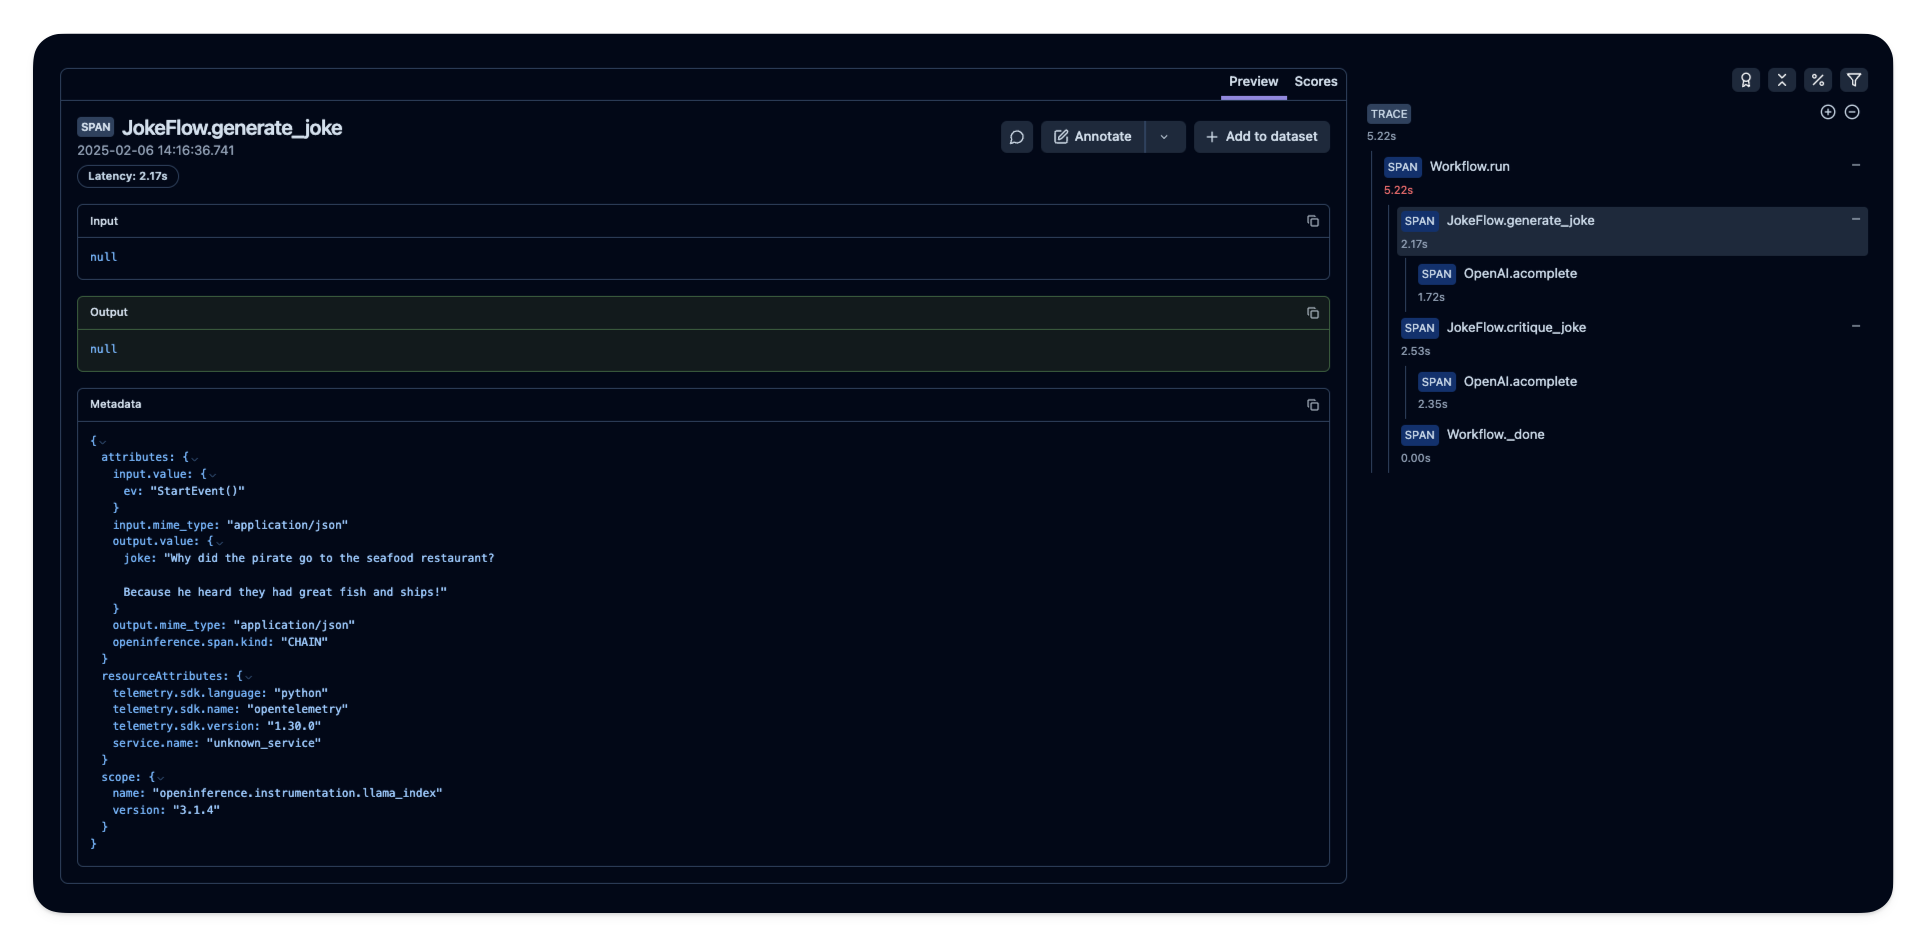
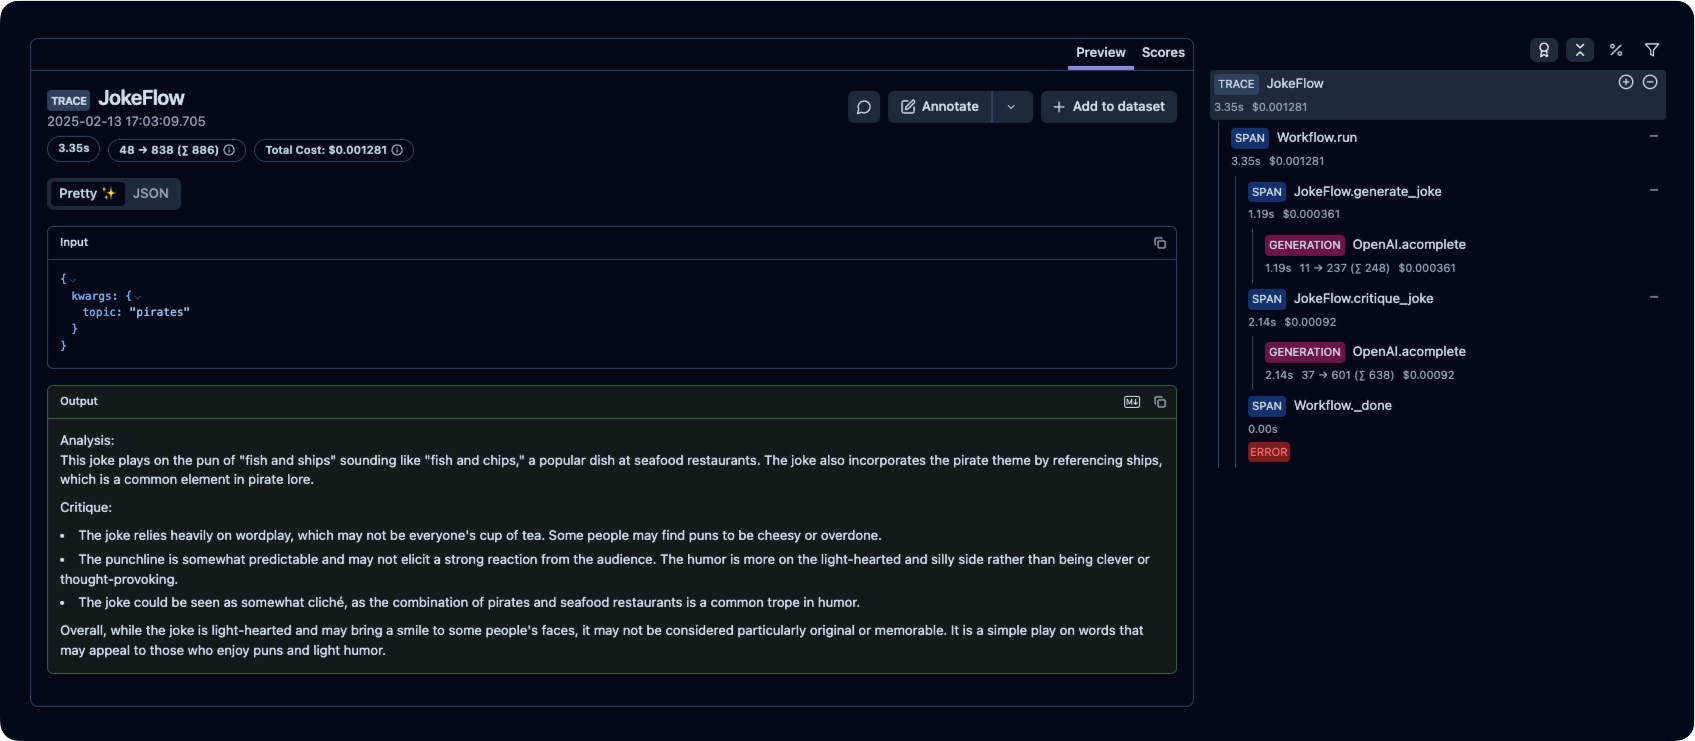
update guide

Changed region(s): [[0.0, 0.0, 1.0, 1.0]]

diff --git a/pages/docs/integrations/llama-index/workflows.md b/pages/docs/integrations/llama-index/workflows.md
@@ -1,11 +1,11 @@
 ---
 title: Observability for LlamaIndex Workflows with Langfuse  
-description: Learn how to integrate Langfuse with LlamaIndex Workflows using OpenTelemetry. This cookbook shows you how to trace AI workflows, improve observability, and debug LLM applications.  
+description: Learn how to monitor LlamaIndex Workflows with Langfuse. This cookbook shows you how to trace AI workflows, improve observability, and debug LLM applications.  
 ---
 
 # Observability for LlamaIndex Workflows
 
-This cookbook demonstrates how to use [Langfuse](https://langfuse.com) to gain real-time observability for your [LlamaIndex Workflows](https://docs.llamaindex.ai/en/stable/module_guides/workflow/). You will learn how to leverage OpenTelemetry to trace each step within a workflow for improved monitoring, debugging, and performance optimization.
+This cookbook demonstrates how to use [Langfuse](https://langfuse.com) to gain real-time observability for your [LlamaIndex Workflows](https://docs.llamaindex.ai/en/stable/module_guides/workflow/).
 
 > **What are LlamaIndex Workflows?** [LlamaIndex Workflows](https://docs.llamaindex.ai/en/stable/module_guides/workflow/) is a flexible, event-driven framework designed to build robust AI agents. In LlamaIndex, workflows are created by chaining together multiple steps—each defined and validated using the `@step` decorator. Every step processes specific event types, allowing you to orchestrate complex processes such as AI agent collaboration, RAG flows, data extraction, and more.
 
@@ -13,60 +13,44 @@ This cookbook demonstrates how to use [Langfuse](https://langfuse.com) to gain r
 
 ## Get Started
 
-We'll walk through a simple example of using LlamaIndex Workflows and integrating it with Langfuse via OpenTelemetry.
+We'll walk through a simple example of using LlamaIndex Workflows and integrating it with Langfuse.
 
 ### Step 1: Install Dependencies
 
 
 ```python
-%pip install opentelemetry-sdk opentelemetry-exporter-otlp
-%pip install openai gcsfs nest-asyncio "openinference-instrumentation-llama-index>=2.0.0"
-%pip install llama-index
+%pip install langfuse openai llama-index
 ```
 
 ### Step 2: Set Up Environment Variables
 
-Configure your Langfuse API keys and OpenTelemetry export settings. Replace the placeholder values with your actual credentials. These settings ensure that OpenTelemetry traces are sent to Langfuse for real-time observability.
+Configure your Langfuse API keys. You can get them by signing up for [Langfuse Cloud](https://cloud.langfuse.com) or [self-hosting Langfuse](https://langfuse.com/self-hosting).
 
 
 ```python
 import os
-import base64
 
-LANGFUSE_PUBLIC_KEY="pk-lf-..."
-LANGFUSE_SECRET_KEY="sk-lf-..."
-LANGFUSE_AUTH=base64.b64encode(f"{LANGFUSE_PUBLIC_KEY}:{LANGFUSE_SECRET_KEY}".encode()).decode()
+# Get keys for your project from the project settings page
+# https://cloud.langfuse.com
 
-# your openai key
-os.environ["OPENAI_API_KEY"] = "sk-..."
+os.environ["LANGFUSE_PUBLIC_KEY"] = "pk-lf-..." # DOCS EXAMPLE KEYS
+os.environ["LANGFUSE_SECRET_KEY"] = "sk-lf-..." # DOCS EXAMPLE KEYS
+os.environ["LANGFUSE_HOST"] = "https://cloud.langfuse.com" # 🇪🇺 EU region
+# os.environ["LANGFUSE_HOST"] = "https://us.cloud.langfuse.com" # 🇺🇸 US region
 
-os.environ["OTEL_EXPORTER_OTLP_ENDPOINT"] = "https://cloud.langfuse.com/api/public/otel" # 🇪🇺 EU data region
-# os.environ["OTEL_EXPORTER_OTLP_ENDPOINT"] = "https://us.cloud.langfuse.com/api/public/otel" # 🇺🇸 US data region
-os.environ["OTEL_EXPORTER_OTLP_HEADERS"] = f"Authorization=Basic {LANGFUSE_AUTH}"
+os.environ["OPENAI_API_KEY"] = "sk-proj-..."
 ```
 
 ### Step 3: Initialize the `LlamaIndexInstrumentor`
 
-Initialize the `LlamaIndexInstrumentor` from the [openinference library](https://github.com/Arize-ai/openinference) before your application code. Configure `tracer_provider` and add a span processor to export traces to Langfuse. `OTLPSpanExporter()` (here imported as `HTTPSpanExporter`) uses the endpoint and headers from the environment variables.
+At the root of your LlamaIndex application, register Langfuse’s `LlamaIndexInstrumentor`. When instantiating `LlamaIndexInstrumentor`, make sure to configure your Langfuse API keys and the Host URL correctly via environment variables or constructor arguments.
 
 
 ```python
-from opentelemetry.sdk import trace as trace_sdk
-from opentelemetry.sdk.trace.export import SimpleSpanProcessor
-from opentelemetry.exporter.otlp.proto.http.trace_exporter import (
-    OTLPSpanExporter as HTTPSpanExporter,
-)
-from openinference.instrumentation.llama_index import LlamaIndexInstrumentor
+from langfuse.llama_index import LlamaIndexInstrumentor
 
-# Add Langfuse
-span_langfuse_processor = SimpleSpanProcessor(HTTPSpanExporter())
-
-# Add them to the tracer
-tracer_provider = trace_sdk.TracerProvider()
-tracer_provider.add_span_processor(span_processor=span_langfuse_processor)
-
-# Instrument the application
-LlamaIndexInstrumentor().instrument(tracer_provider=tracer_provider)
+# Get your keys from the Langfuse project settings page and set them as environment variables or pass them as arguments when initializing the instrumentor
+instrumentor = LlamaIndexInstrumentor()
 ```
 
 ### Step 4: Create a Simple LlamaIndex Workflows Application
@@ -75,6 +59,8 @@ In LlamaIndex Workflows, you build event-driven AI agents by defining steps with
 
 
 ```python
+instrumentor.start()
+
 from llama_index.core.workflow import (
     Event,
     StartEvent,
@@ -111,27 +97,30 @@ class JokeFlow(Workflow):
 w = JokeFlow(timeout=60, verbose=False)
 result = await w.run(topic="pirates")
 print(str(result))
+
+instrumentor.flush()
 ```
 
+    Trace ID is not set. Creating generation client with new trace id.
+
+
     Analysis:
-    This joke plays on the pun of "fish and ships" sounding like "fish and chips," a popular dish at seafood restaurants. The joke also incorporates the pirate theme by mentioning a pirate going to a seafood restaurant, which adds an element of humor.
+    This joke plays on the pun of "fish and ships" sounding like "fish and chips," a popular dish at seafood restaurants. The joke also incorporates the pirate theme by mentioning a pirate going to a seafood restaurant, which adds an element of humor and surprise.
     
     Critique:
-    Overall, this joke is light-hearted and playful, making it suitable for a general audience. The pun is clever and well-executed, providing a humorous twist to a common phrase. However, the joke may be considered somewhat predictable or cliché, as puns involving homophones are a common comedic device. Additionally, the joke relies heavily on wordplay and does not have a complex setup or punchline, which may limit its appeal to some audiences. Overall, while this joke is amusing and likely to elicit a chuckle, it may not be considered particularly original or innovative.
+    Overall, this joke is light-hearted and playful, making it suitable for a general audience. The use of wordplay is clever and adds an element of wit to the punchline. However, the joke may be considered somewhat predictable as the punchline is somewhat expected once the pirate theme is introduced. Additionally, the humor may not be particularly sophisticated or original, as puns involving food and wordplay are common in comedy. Overall, while this joke may elicit a chuckle or a smile, it may not be particularly memorable or groundbreaking in terms of humor.
 
 
 ### Step 5: View Traces in Langfuse
 
-After running your workflow, log in to [Langfuse](https://cloud.langfuse.com) to explore the generated OpenTelemetry traces. You will see detailed logs for each workflow step along with metrics such as token counts, latencies, and execution paths. For example, the trace may show how the preprocessing and reply generation steps were executed in your LlamaIndex Workflows application.
+After running your workflow, log in to [Langfuse](https://cloud.langfuse.com) to explore the generated traces. You will see logs for each workflow step along with metrics such as token counts, latencies, and execution paths. 
 
 ![Langfuse Trace Example](https://langfuse.com/images/cookbook/integration-llamaindex-workflows/llamaindex-workflows-example-trace.png)
 
-_[Public example trace in Langfuse](https://cloud.langfuse.com/project/cloramnkj0002jz088vzn1ja4/traces/9463f912ef8b9763a62d67445bcbc737?timestamp=2025-02-06T13%3A51%3A33.358Z&observation=7d9e694bfe0dd983)_
+_[Public example trace in Langfuse](https://cloud.langfuse.com/project/cloramnkj0002jz088vzn1ja4/traces/f2bb3e13-aafb-41a0-a852-efd20f12a4f4?timestamp=2025-02-13T16%3A03%3A09.705Z)_
 
 ## References
 
-- [Langfuse OpenTelemetry Docs](https://langfuse.com/docs/opentelemetry/get-started)  
 - [LlamaIndex Workflows Documentation](https://docs.llamaindex.ai/en/stable/module_guides/workflow/)  
-
 
 

diff --git a/pages/guides/cookbook/integration_llamaindex_workflows.md b/pages/guides/cookbook/integration_llamaindex_workflows.md
@@ -1,11 +1,11 @@
 ---
 title: Observability for LlamaIndex Workflows with Langfuse  
-description: Learn how to integrate Langfuse with LlamaIndex Workflows using OpenTelemetry. This cookbook shows you how to trace AI workflows, improve observability, and debug LLM applications.  
+description: Learn how to monitor LlamaIndex Workflows with Langfuse. This cookbook shows you how to trace AI workflows, improve observability, and debug LLM applications.  
 ---
 
 # Observability for LlamaIndex Workflows
 
-This cookbook demonstrates how to use [Langfuse](https://langfuse.com) to gain real-time observability for your [LlamaIndex Workflows](https://docs.llamaindex.ai/en/stable/module_guides/workflow/). You will learn how to leverage OpenTelemetry to trace each step within a workflow for improved monitoring, debugging, and performance optimization.
+This cookbook demonstrates how to use [Langfuse](https://langfuse.com) to gain real-time observability for your [LlamaIndex Workflows](https://docs.llamaindex.ai/en/stable/module_guides/workflow/).
 
 > **What are LlamaIndex Workflows?** [LlamaIndex Workflows](https://docs.llamaindex.ai/en/stable/module_guides/workflow/) is a flexible, event-driven framework designed to build robust AI agents. In LlamaIndex, workflows are created by chaining together multiple steps—each defined and validated using the `@step` decorator. Every step processes specific event types, allowing you to orchestrate complex processes such as AI agent collaboration, RAG flows, data extraction, and more.
 
@@ -13,60 +13,44 @@ This cookbook demonstrates how to use [Langfuse](https://langfuse.com) to gain r
 
 ## Get Started
 
-We'll walk through a simple example of using LlamaIndex Workflows and integrating it with Langfuse via OpenTelemetry.
+We'll walk through a simple example of using LlamaIndex Workflows and integrating it with Langfuse.
 
 ### Step 1: Install Dependencies
 
 
 ```python
-%pip install opentelemetry-sdk opentelemetry-exporter-otlp
-%pip install openai gcsfs nest-asyncio "openinference-instrumentation-llama-index>=2.0.0"
-%pip install llama-index
+%pip install langfuse openai llama-index
 ```
 
 ### Step 2: Set Up Environment Variables
 
-Configure your Langfuse API keys and OpenTelemetry export settings. Replace the placeholder values with your actual credentials. These settings ensure that OpenTelemetry traces are sent to Langfuse for real-time observability.
+Configure your Langfuse API keys. You can get them by signing up for [Langfuse Cloud](https://cloud.langfuse.com) or [self-hosting Langfuse](https://langfuse.com/self-hosting).
 
 
 ```python
 import os
-import base64
 
-LANGFUSE_PUBLIC_KEY="pk-lf-..."
-LANGFUSE_SECRET_KEY="sk-lf-..."
-LANGFUSE_AUTH=base64.b64encode(f"{LANGFUSE_PUBLIC_KEY}:{LANGFUSE_SECRET_KEY}".encode()).decode()
+# Get keys for your project from the project settings page
+# https://cloud.langfuse.com
 
-# your openai key
-os.environ["OPENAI_API_KEY"] = "sk-..."
+os.environ["LANGFUSE_PUBLIC_KEY"] = "pk-lf-..." # DOCS EXAMPLE KEYS
+os.environ["LANGFUSE_SECRET_KEY"] = "sk-lf-..." # DOCS EXAMPLE KEYS
+os.environ["LANGFUSE_HOST"] = "https://cloud.langfuse.com" # 🇪🇺 EU region
+# os.environ["LANGFUSE_HOST"] = "https://us.cloud.langfuse.com" # 🇺🇸 US region
 
-os.environ["OTEL_EXPORTER_OTLP_ENDPOINT"] = "https://cloud.langfuse.com/api/public/otel" # 🇪🇺 EU data region
-# os.environ["OTEL_EXPORTER_OTLP_ENDPOINT"] = "https://us.cloud.langfuse.com/api/public/otel" # 🇺🇸 US data region
-os.environ["OTEL_EXPORTER_OTLP_HEADERS"] = f"Authorization=Basic {LANGFUSE_AUTH}"
+os.environ["OPENAI_API_KEY"] = "sk-proj-..."
 ```
 
 ### Step 3: Initialize the `LlamaIndexInstrumentor`
 
-Initialize the `LlamaIndexInstrumentor` from the [openinference library](https://github.com/Arize-ai/openinference) before your application code. Configure `tracer_provider` and add a span processor to export traces to Langfuse. `OTLPSpanExporter()` (here imported as `HTTPSpanExporter`) uses the endpoint and headers from the environment variables.
+At the root of your LlamaIndex application, register Langfuse’s `LlamaIndexInstrumentor`. When instantiating `LlamaIndexInstrumentor`, make sure to configure your Langfuse API keys and the Host URL correctly via environment variables or constructor arguments.
 
 
 ```python
-from opentelemetry.sdk import trace as trace_sdk
-from opentelemetry.sdk.trace.export import SimpleSpanProcessor
-from opentelemetry.exporter.otlp.proto.http.trace_exporter import (
-    OTLPSpanExporter as HTTPSpanExporter,
-)
-from openinference.instrumentation.llama_index import LlamaIndexInstrumentor
+from langfuse.llama_index import LlamaIndexInstrumentor
 
-# Add Langfuse
-span_langfuse_processor = SimpleSpanProcessor(HTTPSpanExporter())
-
-# Add them to the tracer
-tracer_provider = trace_sdk.TracerProvider()
-tracer_provider.add_span_processor(span_processor=span_langfuse_processor)
-
-# Instrument the application
-LlamaIndexInstrumentor().instrument(tracer_provider=tracer_provider)
+# Get your keys from the Langfuse project settings page and set them as environment variables or pass them as arguments when initializing the instrumentor
+instrumentor = LlamaIndexInstrumentor()
 ```
 
 ### Step 4: Create a Simple LlamaIndex Workflows Application
@@ -75,6 +59,8 @@ In LlamaIndex Workflows, you build event-driven AI agents by defining steps with
 
 
 ```python
+instrumentor.start()
+
 from llama_index.core.workflow import (
     Event,
     StartEvent,
@@ -111,27 +97,30 @@ class JokeFlow(Workflow):
 w = JokeFlow(timeout=60, verbose=False)
 result = await w.run(topic="pirates")
 print(str(result))
+
+instrumentor.flush()
 ```
 
+    Trace ID is not set. Creating generation client with new trace id.
+
+
     Analysis:
-    This joke plays on the pun of "fish and ships" sounding like "fish and chips," a popular dish at seafood restaurants. The joke also incorporates the pirate theme by mentioning a pirate going to a seafood restaurant, which adds an element of humor.
+    This joke plays on the pun of "fish and ships" sounding like "fish and chips," a popular dish at seafood restaurants. The joke also incorporates the pirate theme by mentioning a pirate going to a seafood restaurant, which adds an element of humor and surprise.
     
     Critique:
-    Overall, this joke is light-hearted and playful, making it suitable for a general audience. The pun is clever and well-executed, providing a humorous twist to a common phrase. However, the joke may be considered somewhat predictable or cliché, as puns involving homophones are a common comedic device. Additionally, the joke relies heavily on wordplay and does not have a complex setup or punchline, which may limit its appeal to some audiences. Overall, while this joke is amusing and likely to elicit a chuckle, it may not be considered particularly original or innovative.
+    Overall, this joke is light-hearted and playful, making it suitable for a general audience. The use of wordplay is clever and adds an element of wit to the punchline. However, the joke may be considered somewhat predictable as the punchline is somewhat expected once the pirate theme is introduced. Additionally, the humor may not be particularly sophisticated or original, as puns involving food and wordplay are common in comedy. Overall, while this joke may elicit a chuckle or a smile, it may not be particularly memorable or groundbreaking in terms of humor.
 
 
 ### Step 5: View Traces in Langfuse
 
-After running your workflow, log in to [Langfuse](https://cloud.langfuse.com) to explore the generated OpenTelemetry traces. You will see detailed logs for each workflow step along with metrics such as token counts, latencies, and execution paths. For example, the trace may show how the preprocessing and reply generation steps were executed in your LlamaIndex Workflows application.
+After running your workflow, log in to [Langfuse](https://cloud.langfuse.com) to explore the generated traces. You will see logs for each workflow step along with metrics such as token counts, latencies, and execution paths. 
 
 ![Langfuse Trace Example](https://langfuse.com/images/cookbook/integration-llamaindex-workflows/llamaindex-workflows-example-trace.png)
 
-_[Public example trace in Langfuse](https://cloud.langfuse.com/project/cloramnkj0002jz088vzn1ja4/traces/9463f912ef8b9763a62d67445bcbc737?timestamp=2025-02-06T13%3A51%3A33.358Z&observation=7d9e694bfe0dd983)_
+_[Public example trace in Langfuse](https://cloud.langfuse.com/project/cloramnkj0002jz088vzn1ja4/traces/f2bb3e13-aafb-41a0-a852-efd20f12a4f4?timestamp=2025-02-13T16%3A03%3A09.705Z)_
 
 ## References
 
-- [Langfuse OpenTelemetry Docs](https://langfuse.com/docs/opentelemetry/get-started)  
 - [LlamaIndex Workflows Documentation](https://docs.llamaindex.ai/en/stable/module_guides/workflow/)  
-
 
 
